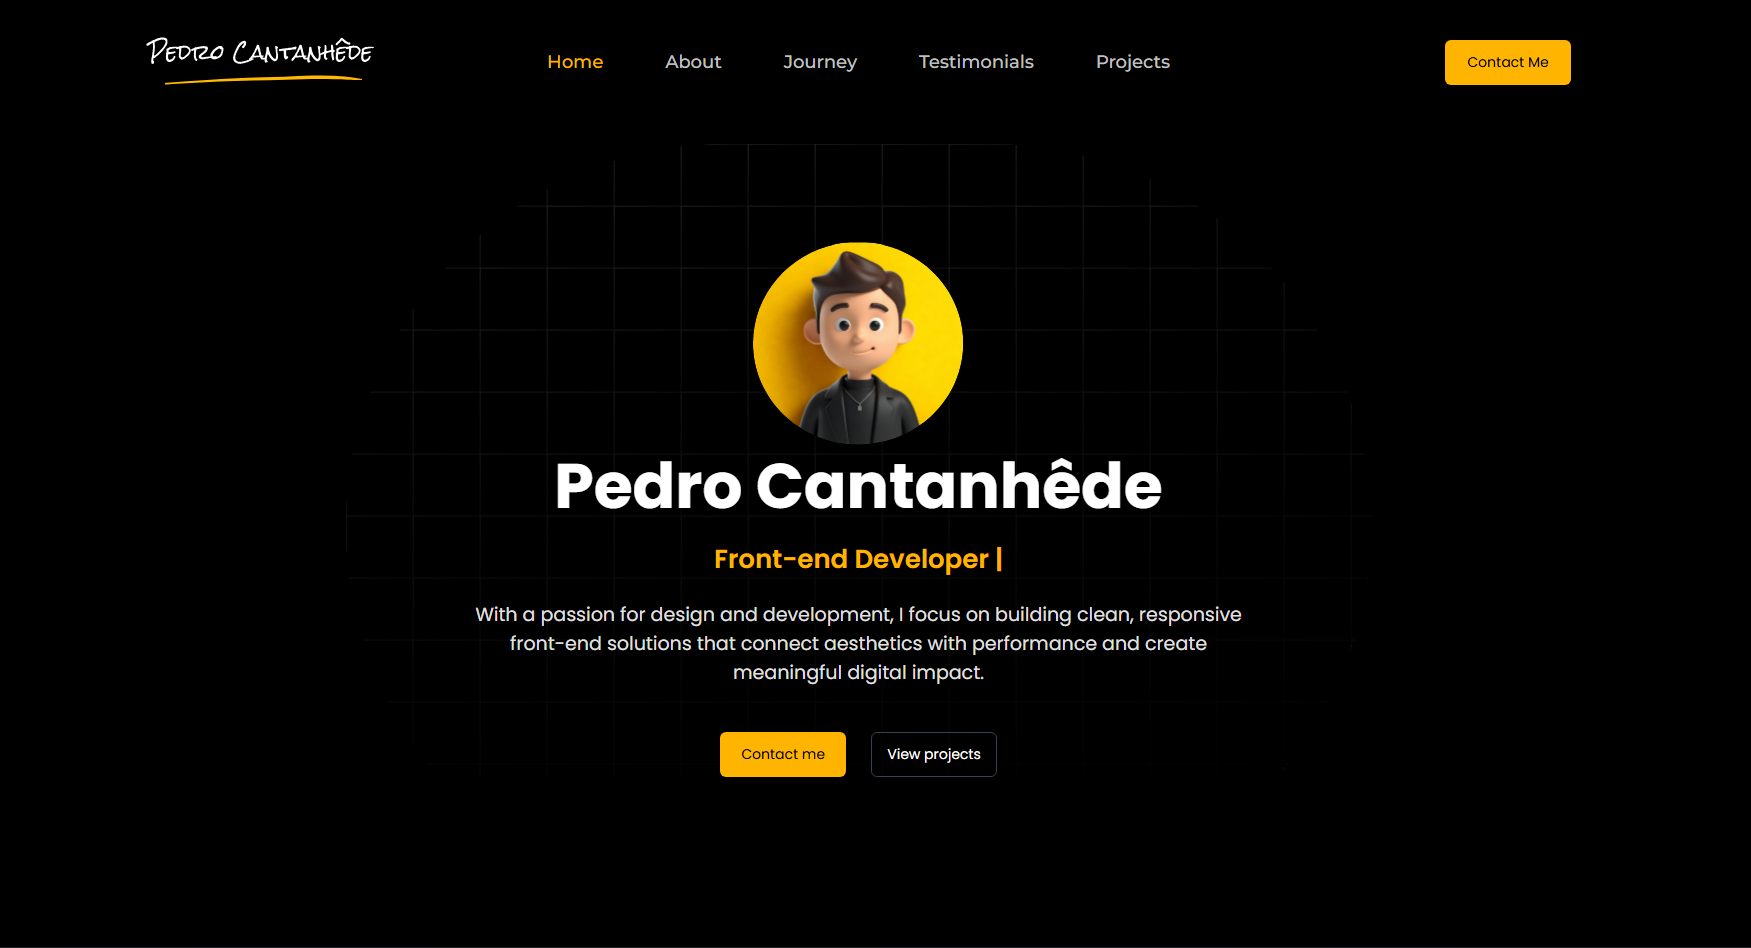
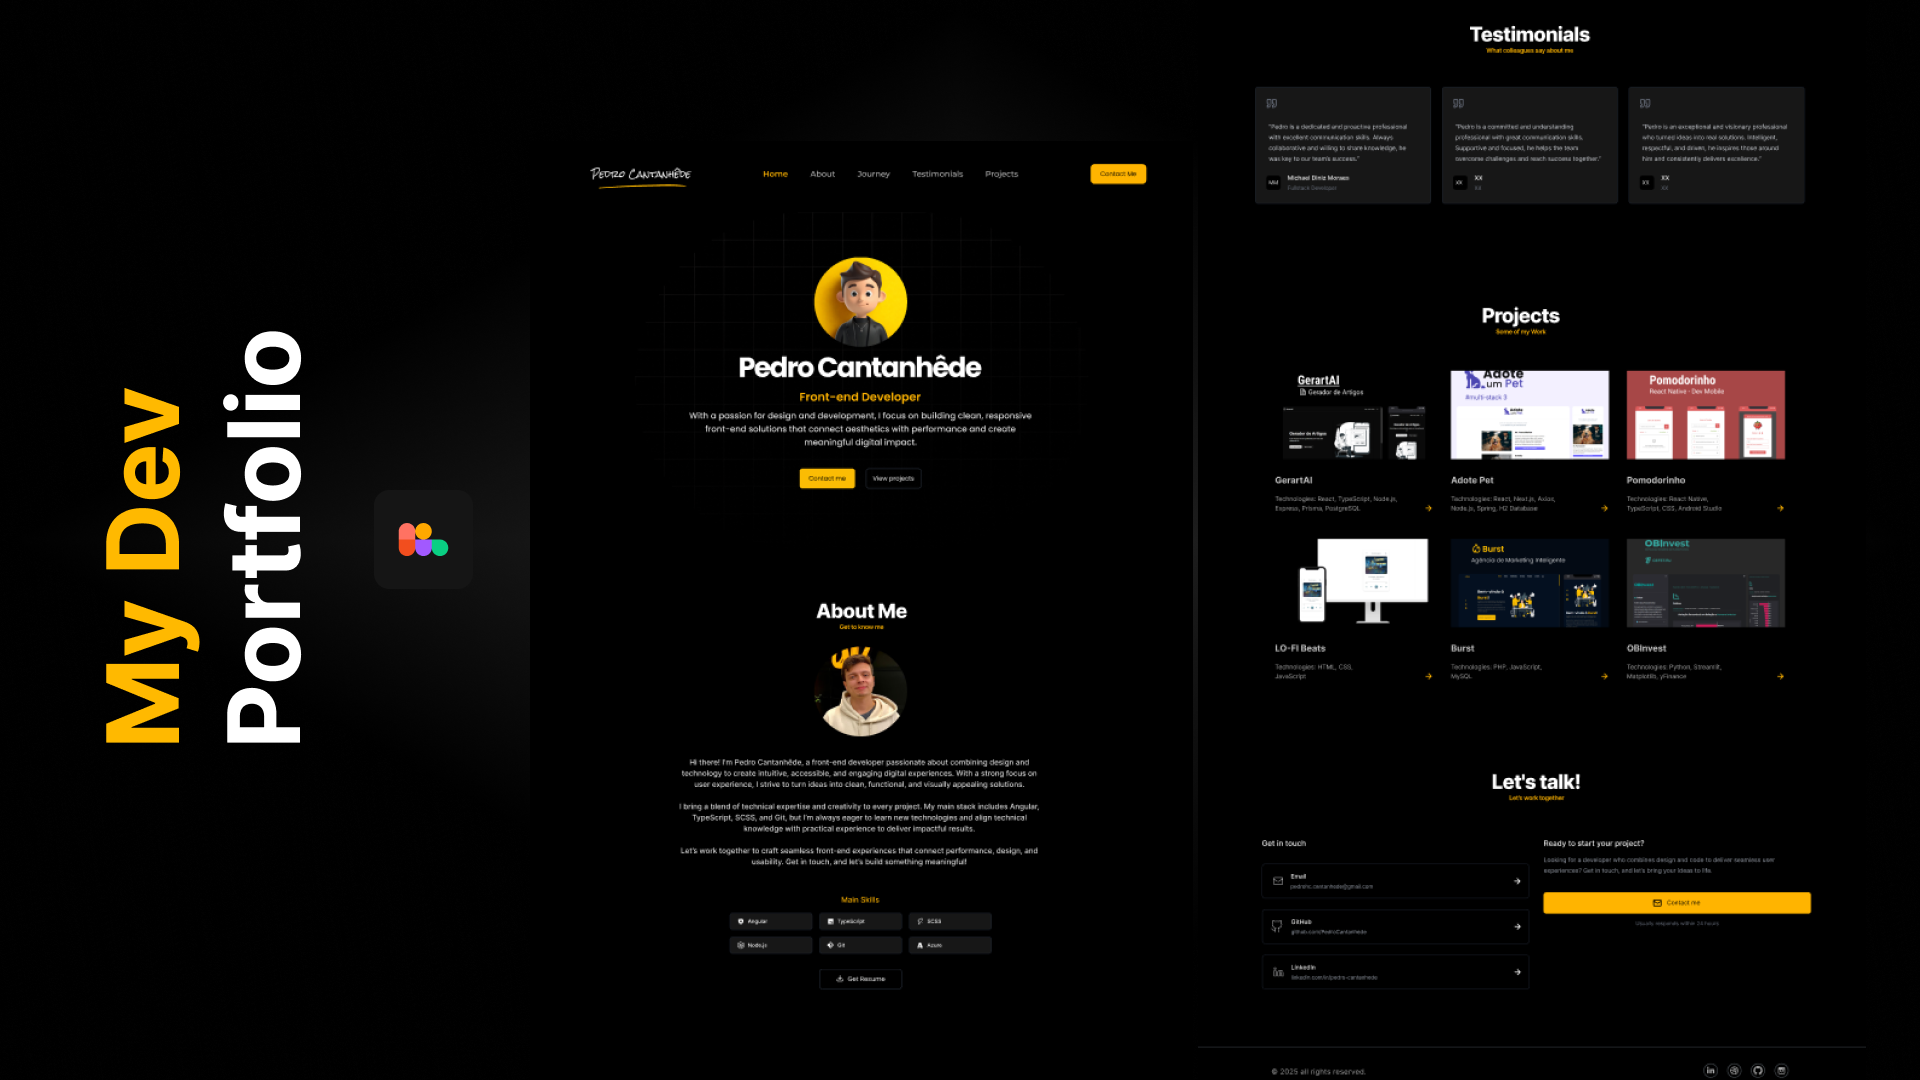
:page_facing_up: documentation completed

diff --git a/README.md b/README.md
@@ -1,9 +1,9 @@
 <h1 align="center">
-    <img alt="Portfolio Pedro Cantanhêde" title="Portfolio Pedro Cantanhêde" src="github/logo-pedro-cantanhede.svg" width="300px" />
+    <img alt="Portfolio Pedro Cantanhêde" title="Portfolio - Pedro Cantanhêde" src="github/logo-pedro-cantanhede.svg" width="300px" />
 </h1>
 
 <div align="center">
-    <h3> 🟡 Modern and responsive personal portfolio developed with React and TypeScript. 🟡 </h3>
+    <h3> 🟡 My portfolio - Frontend Developer 🟡 </h3>
     <a href="https://www.pedro-cantanhede.dev/" target="_blank">
       <img src="https://img.shields.io/static/v1?label=Portfolio&message=PedroCantanhede&color=ffa800&style=for-the-badge" target="_blank" alt="Rocketseat">
     </a>
@@ -23,7 +23,7 @@ This is my modern and responsive portfolio built to showcase my work as a Front-
   <img alt="Portfolio Pedro Cantanhêde" src="./github/banner.png" width="100%">
 </p>
 
-# 🔨 Tecnologias
+# 🔨 Technologies
 
 💻 React 18
 
@@ -127,5 +127,5 @@ For questions or suggestions, contact me through the portfolio form or social ne
 ---
 
 <div align="center">
-  <p>Developed with ❤ by <a href="https://github.com/PedroCantanhede" target="_blank">Pedro Cantanhêde</a></p>
+  <p>Developed with 💛 by <a href="https://github.com/PedroCantanhede" target="_blank">Pedro Cantanhêde</a></p>
 </div>
